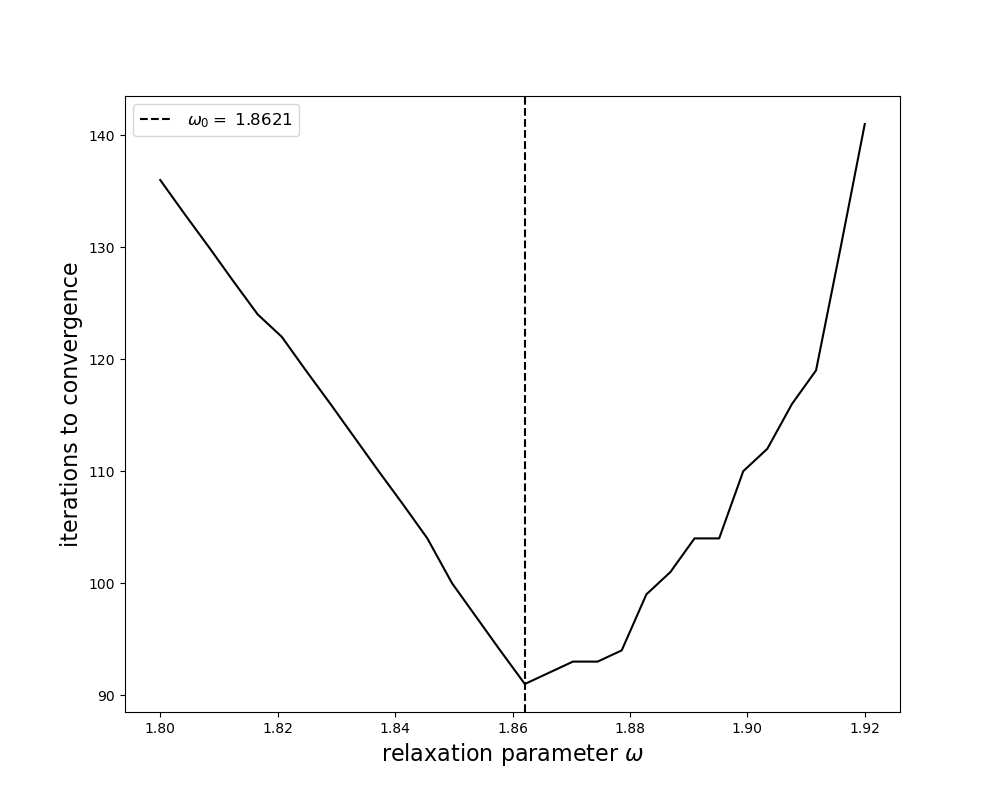
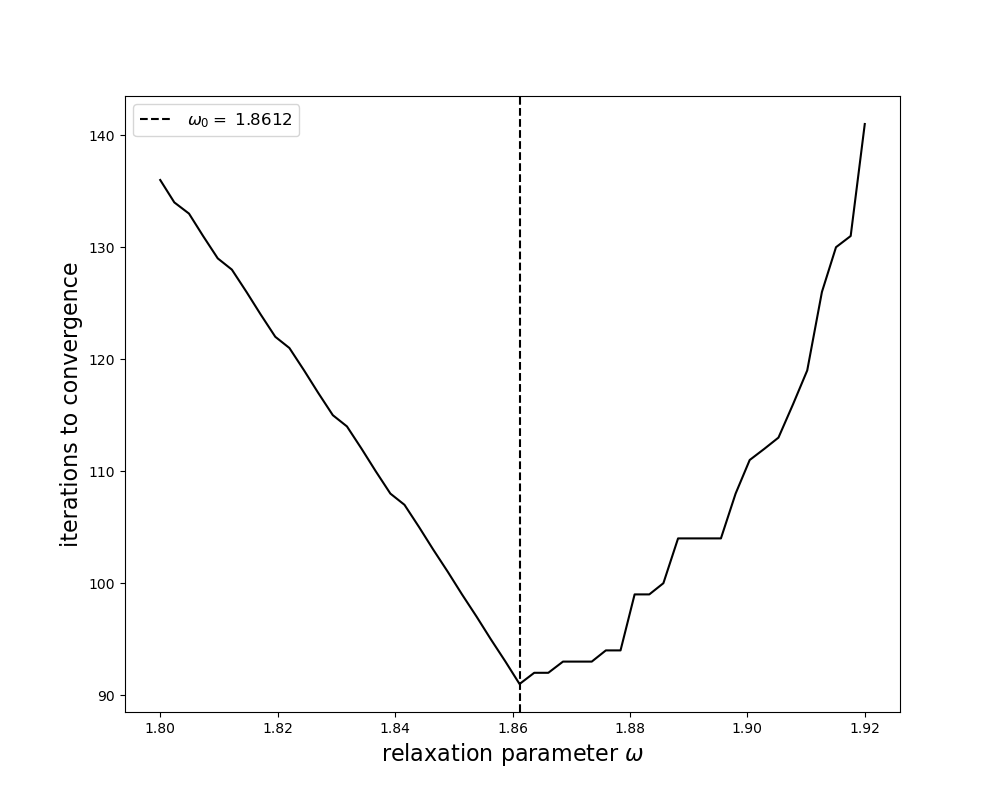
last

diff --git a/checkpoint 3/poisson.py b/checkpoint 3/poisson.py
@@ -567,7 +567,7 @@ class Poisson:
         self.alg = self.SOR
 
         # collect convergence data over varying w
-        w_list = np.round(np.linspace(1.8, 1.92, 30), 4)
+        w_list = np.round(np.linspace(1.8, 1.92, 50), 4)
 
         with open("poisson_task10.txt", 'w') as f:
             f.write("w,iters\n")
